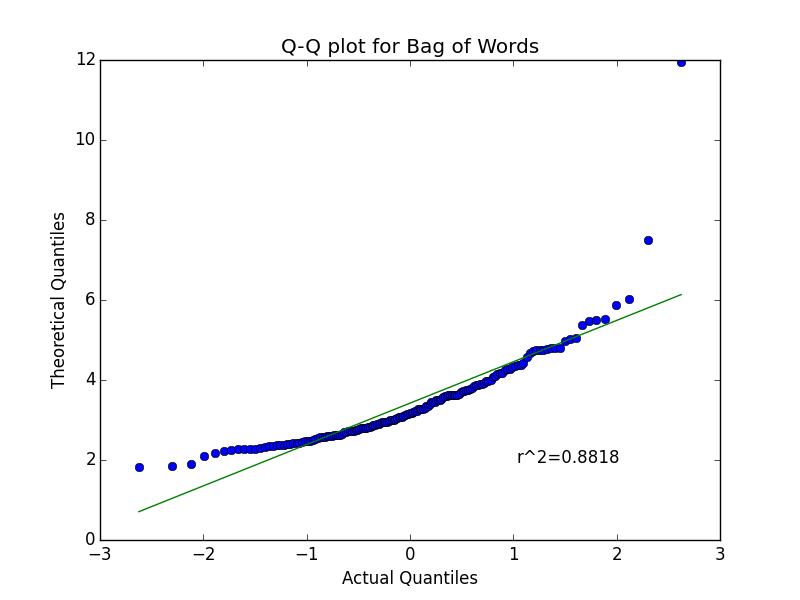
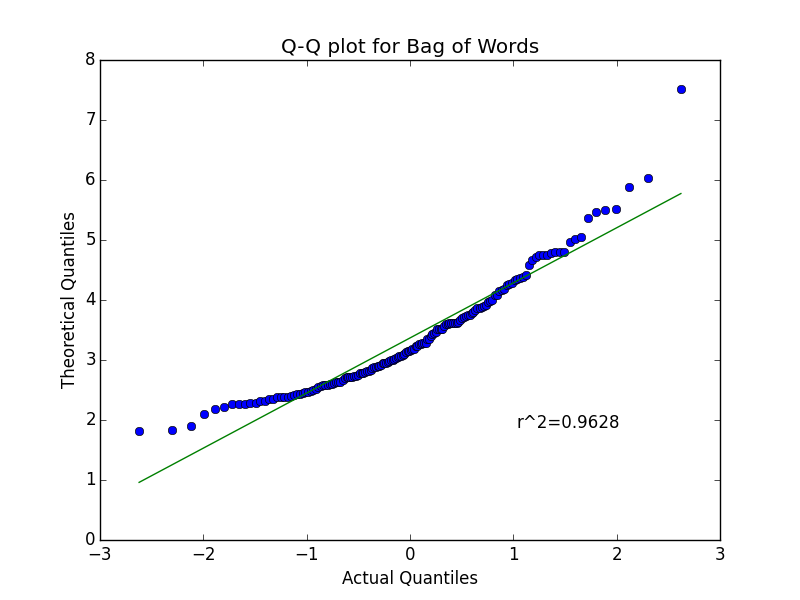
Fix up graphs

diff --git a/hw3_code_dzbarsky.py b/hw3_code_dzbarsky.py
@@ -549,6 +549,7 @@ def plot_t_values(file):
         line = line.split(' ')
         line = [i for i in line if i != '']
         tvalues.append(math.fabs(float(line[3])))
+    tvalues.remove(11.939)
     indices = [n for n in range(len(tvalues))]
     Plot.scatter(indices, tvalues)
     Plot.title('T-values of Variables in Model')
@@ -592,6 +593,8 @@ def plot_qq(file):
         line = line.split(' ')
         line = [i for i in line if i != '']
         tvalues.append(math.fabs(float(line[3])))
+    tvalues = sorted(tvalues)
+    tvalues = tvalues[:len(tvalues)-1]
     stats.probplot(tvalues, dist="norm", plot=Plot)
     Plot.title('Q-Q plot for Bag of Words')
     Plot.xlabel('Actual Quantiles')
@@ -661,9 +664,9 @@ def main():
     '''
 
     #plot_qq('ols_results.txt')
-    #plot_t_values('ols_results.txt')
+    plot_t_values('ols_results.txt')
     #plot_qq_pca('pca_explained_variance')
-    plot_qq_cca()
+    #plot_qq_cca()
     #plot_t_values_pca('pca_explained_variance')
     #plot_t_values_cca()
 
